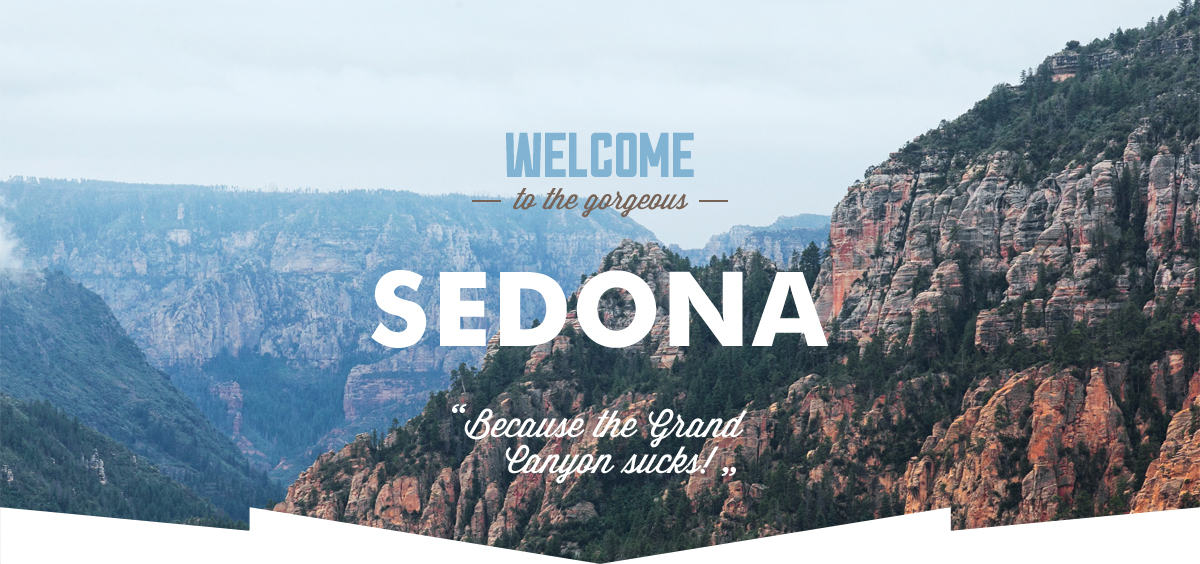
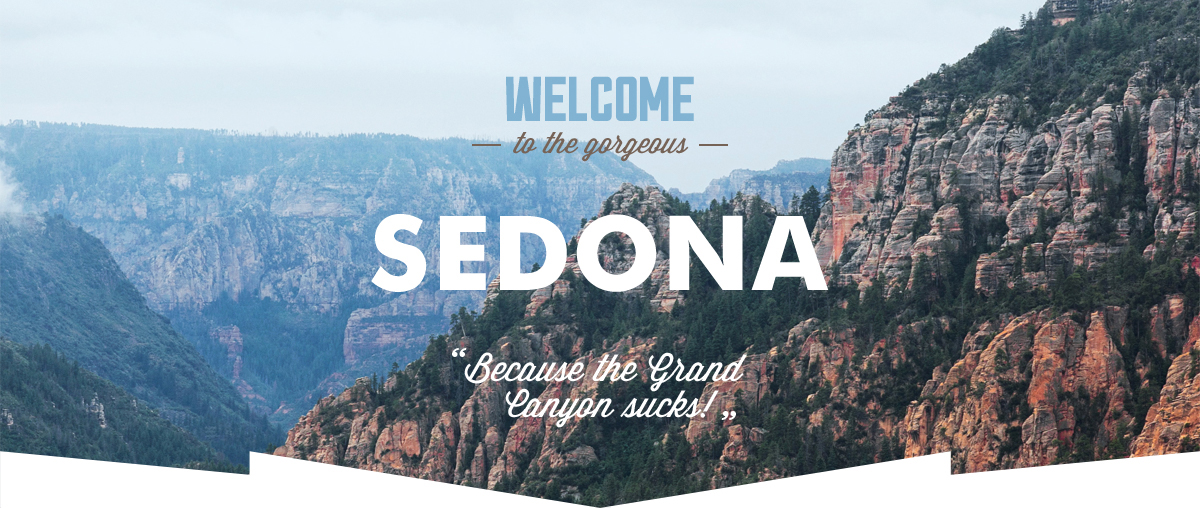
Поправил главну после PixelPerfect.

diff --git a/css/styles.css b/css/styles.css
@@ -4,7 +4,7 @@ html, body {
 	padding: 0;
 
 	/* Типографика */
-	font-family: 'PT Sans', sans-serif;
+	font-family: 'PT Sans', "Tahoma", sans-serif;
 	font-size: 14px;
 	line-height: 21px;
 	font-weight: normal;
@@ -117,10 +117,13 @@ p {
 	margin: 0 auto;
 }
 
+.intro {
+	padding: 55px;
+}
+
 .intro h2 {
 	/* Блочная модель */
-	padding-top: 55px;
-	padding-bottom: 0px;
+	padding-bottom: 30px;
 	margin: 0 auto;
 	max-width: 490px;
 
@@ -130,15 +133,13 @@ p {
 
 .intro p {
 	/* Блочная модель */
-	padding-top: 30px;
-	padding-bottom: 50px;
 	margin: 0 auto;
 }
 
 .feature {
 	/* Блочная модель */
 	display: flex;
-	align-items: center;
+	align-items: stretch;
 
 	/* Типографика */
 	text-align: center;
@@ -154,8 +155,12 @@ p {
 	margin: 0;
 }
 
-.feature p {
-	padding-top: 32px;
+.feature h2 {
+	padding-bottom: 30px;
+}
+
+.feature p:first-of-type {
+	padding-bottom: 20px;
 }
 
 .feature.feature-reverse {
@@ -164,8 +169,7 @@ p {
 }
 
 .left-side {
-	padding-left: 60px;
-	padding-right: 60px;
+	padding: 60px;
 }
 
 .recommendations {
@@ -176,10 +180,8 @@ p {
 .recommendations .recommendations-item {
 	/* Блочная модель */
 	width: 33%;
-}
-
-.recommendations .recommendations-item p {
-	padding-top: 32px;
+	padding-left: 73px;
+    padding-right: 73px;
 }
 
 .recommendations .recommendations-item h3 {
@@ -187,7 +189,8 @@ p {
 	position: relative;
 
 	/* Блочная модель */
-	padding-top: 164px;
+	padding-top: 160px;
+	padding-bottom: 25px;
 }
 
 .recommendations .recommendations-item h3::before {
@@ -224,7 +227,7 @@ p {
 }
 
 .recommendations .recommendations-item p:last-child {
-	padding-bottom: 90px;
+	padding-bottom: 80px;
 }
 
 .features-list {
@@ -243,11 +246,15 @@ p {
 	width: 33%;
 	padding-left: 70px;
 	padding-right: 70px;
+	padding-top: 50px;
+	padding-bottom: 40px;
 }
 
 .features-list .features-item h3 {
 	/* Блочная модель */
-	padding-top: 50px; 
+	padding-left: 50px; 
+	padding-right: 50px;
+	padding-bottom: 20px;
 
 	/* Блочная модель */
 	margin: 0;
@@ -257,22 +264,21 @@ p {
 }
 
 .features-list .features-item p {
-	padding-top: 32px;
-}
-
-.features-list .features-item p:last-child {
-	padding-bottom: 65px;
+	padding-bottom: 20px;
 }
 
 .hotels-search {
+	/* Блочная модель */
+	padding-top: 50px;
+
 	/* Типографика */
 	text-align: center;
 }
 
 .hotels-search h2 {
 	/* Блочная модель */
-	padding-top: 60px;
 	margin: 0;
+	padding-bottom: 30px;
 
 	/* Типографика */
 	font-size: 30px;
@@ -291,14 +297,9 @@ p {
 	font-weight: normal;
 }
 
-.hotels-search > p:first-of-type {
-	/* Блочная модель */
-	padding-top: 40px;
-}
-
 .hotels-search > p:last-of-type {
 	/* Блочная модель */
-	padding-bottom: 55px;
+	padding-bottom: 40px;
 }
 
 .hotels-search button {

diff --git a/index.html b/index.html
@@ -29,7 +29,7 @@
         </section>
         <main class="container">
             <section class="intro" id="intro">
-                <h2>Седона - небольшой городок в Аризоне, заслуживающий большего!</h2>
+                <h2>Седона — небольшой городок в Аризоне, заслуживающий большего!</h2>
                 <p>Рассмотрим 5 причин, по которым Седона круче, чем Гранд Каньон!</p>
             </section>
             <section class="feature">
@@ -125,7 +125,7 @@
             </section>
             <section class="map" id="map">
                 <h2 class="visually-hidden">Карта</h2>
-                <img src="img/content/map.jpg" width="1200" height="747" alt="Карта">
+                <img src="img/content/map.jpg" width="1200" height="593" alt="Карта">
             </section>
         </main>
         <footer class="page-footer page-footer-overlay container">
